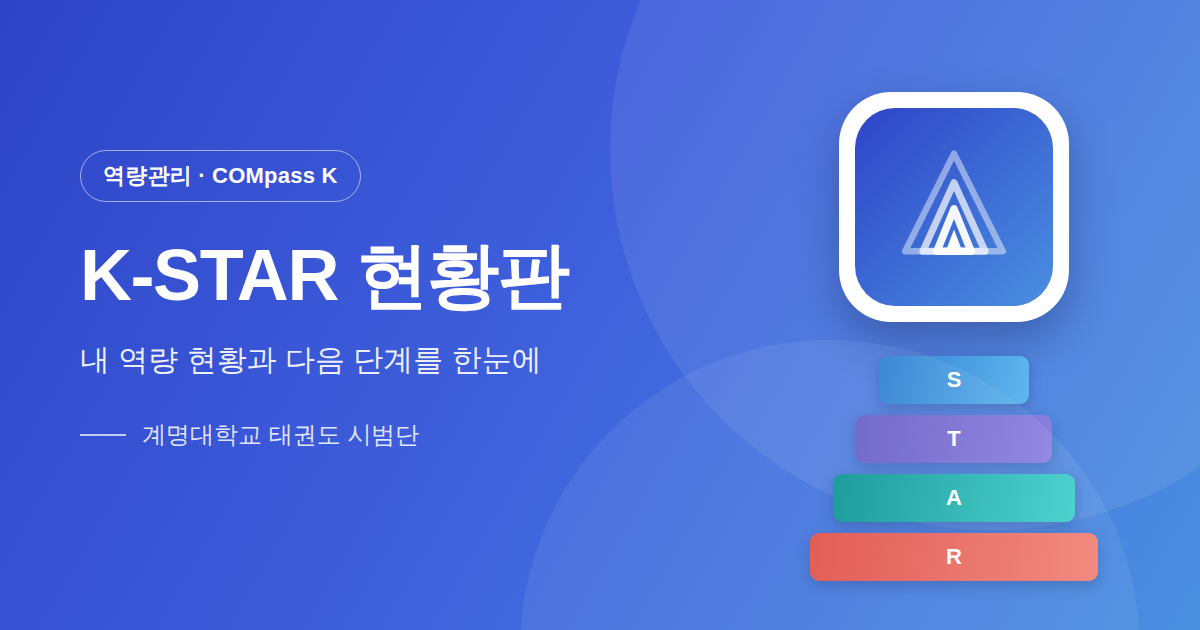
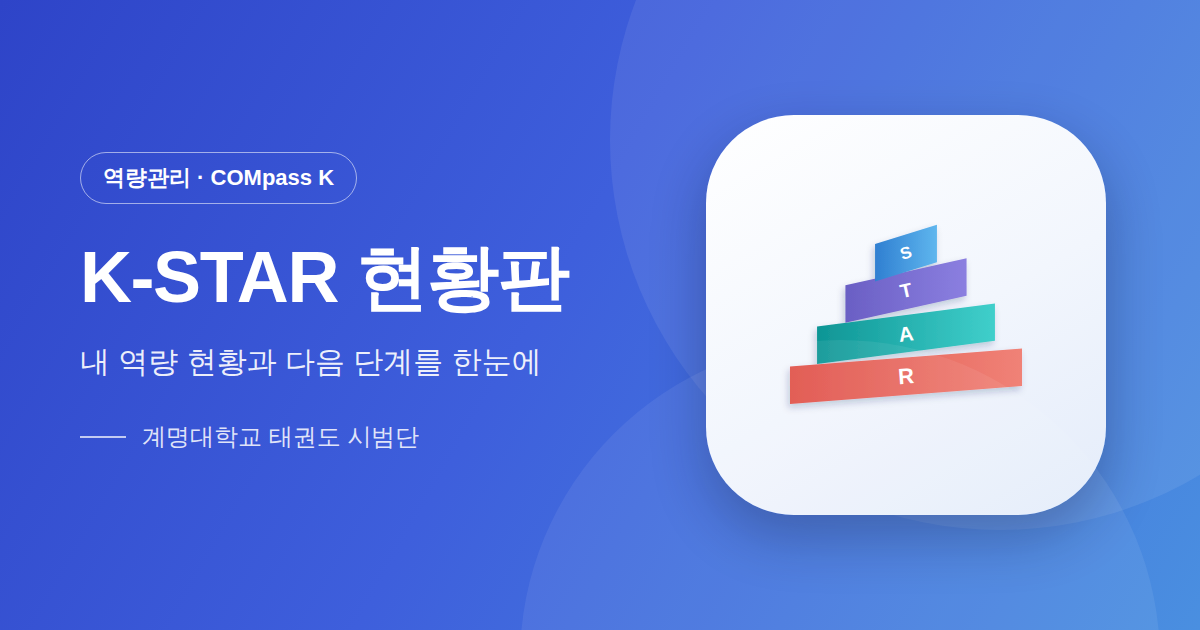
앱 아이콘을 K-STAR 피라미드로 바꾸고 인증 현황 피라미드를 넣음
- 아이콘: 계명스튜던트포털의 K-STAR 피라미드를 본떠 기울어진
  네 층(R 빨강 / A 청록 / T 보라 / S 파랑)으로 다시 그림.
  카톡 미리보기 이미지도 같은 그림으로 교체
- 단원 화면 위쪽과 관리자 상세에 "K-STAR 인증 현황" 피라미드 추가.
  인증받은 층은 제 색으로 칠하고 왼쪽에 빨간 인증 도장,
  아직인 층은 회색으로 비워 둔다
- 이미 인증받은 단계를 다시 "다음 목표"로 내밀던 문제를 고침.
  칸 배정과 다음 목표를 따로 계산하고, FACE 미달 상태로 S를
  향하는 경우는 "S단계 준비 중"으로 구분해 표시
- 좁은 화면에서 제목과 버튼이 어색하게 끊기던 것 정리

Claude-Session: https://claude.ai/code/session_019X6R4KipJqxm9tG7Tq54df

diff --git a/index.html b/index.html
@@ -89,7 +89,7 @@ button{font-family:inherit;}
 .brand-mark{width:38px; height:38px; border-radius:11px; background:var(--primary); color:var(--primary-contrast); display:flex; align-items:center; justify-content:center; font-size:18px; flex:none;}
 .brand svg{flex:none;}
 .brand-text strong{display:block; font-size:19px; font-weight:900; letter-spacing:-.01em; color:#fff;}
-.brand-text span{display:block; font-size:11.5px; color:rgba(255,255,255,.86); margin-top:2px; line-height:1.4;}
+.brand-text span{display:block; font-size:11.5px; color:rgba(255,255,255,.86); margin-top:2px; line-height:1.4; word-break:keep-all;}
 .guide-link{border:1px solid rgba(255,255,255,.4); background:rgba(255,255,255,.16); color:#fff;
   font-size:12.5px; font-weight:600; padding:8px 12px; border-radius:8px; cursor:pointer; white-space:nowrap;}
 .guide-link:hover{background:rgba(255,255,255,.28); border-color:rgba(255,255,255,.65);}
@@ -101,7 +101,7 @@ button{font-family:inherit;}
 .phone{width:100%; max-width:460px; background:var(--surface); border:1px solid var(--border); border-radius:var(--radius-l); box-shadow:var(--shadow-card); padding:24px 20px; position:relative; min-height:420px;}
 .page.wide .phone{max-width:1000px;}
 .eyebrow{font-size:11.5px; font-weight:700; letter-spacing:.06em; text-transform:uppercase; color:var(--text-faint);}
-.screen-title{font-size:22px; margin-top:6px; margin-bottom:4px;}
+.screen-title{font-size:22px; margin-top:6px; margin-bottom:4px; word-break:keep-all;}
 .screen-sub{font-size:13px; color:var(--text-muted); margin-bottom:18px;}
 
 .field{display:flex; flex-direction:column; gap:6px; margin-bottom:14px;}
@@ -123,7 +123,7 @@ button{font-family:inherit;}
 .btn-line{background:transparent; color:var(--text-muted); border:1px dashed var(--border);}
 .btn-danger{background:var(--danger-bg); color:var(--danger); border-color:var(--danger-border);}
 .btn-small{width:auto; padding:8px 12px; font-size:12.5px;}
-.linklike{background:none; border:none; color:var(--primary); font-weight:600; font-size:12.5px; cursor:pointer; padding:0;}
+.linklike{background:none; border:none; color:var(--primary); font-weight:600; font-size:12.5px; cursor:pointer; padding:0; white-space:nowrap;}
 .row{display:flex; align-items:center; gap:10px;}
 .row-between{display:flex; align-items:center; justify-content:space-between; gap:8px; margin-bottom:12px;}
 .stack{display:flex; flex-direction:column; gap:10px;}
@@ -296,6 +296,15 @@ button{font-family:inherit;}
 .gtable th{color:var(--text-faint); font-weight:700; font-size:11px;}
 details.acc{border-left:4px solid var(--border); padding-left:11px; margin-bottom:8px;}
 details.acc summary{cursor:pointer; font-weight:600; font-size:13.5px; padding:6px 0;}
+/* K-STAR 인증 현황 피라미드 */
+.pyr{border:1px solid var(--border); border-radius:var(--radius-m); background:var(--surface-3);
+  padding:13px 14px 8px; margin-bottom:14px;}
+.pyr-head{display:flex; align-items:baseline; gap:8px; margin-bottom:4px;}
+.pyr-head b{font-size:13px; font-weight:800;}
+.pyr-head span{margin-left:auto; font-size:11.5px; font-weight:700; color:var(--text-muted);}
+.pyr svg{display:block; width:100%; height:auto;}
+.pyr-foot{font-size:11.5px; color:var(--text-muted); line-height:1.5; text-align:center; padding:2px 0 4px;}
+
 /* 단원 화면의 인증 절차 안내 */
 .procbox{border:1px solid var(--border); border-radius:var(--radius-m); background:var(--surface-3); margin-bottom:14px; overflow:hidden;}
 .procbox>summary{cursor:pointer; list-style:none; padding:12px 14px; font-size:13px; font-weight:800; color:var(--primary); display:flex; align-items:baseline; gap:7px; flex-wrap:wrap;}
@@ -356,7 +365,7 @@ function num(v){ var n = Number(v); return isFinite(n) ? n : 0; }
 var API_URL = 'https://script.google.com/macros/s/AKfycbwAFtdwKL3QTGxGSzOiJiwc19kmYAjOwWH2yszp2hy64RD1OClqMN5IOR5y-nx7uhNd/exec';
 
 // 화면 아래에 표시되는 판 번호. 고칠 때마다 올린다.
-var APP_VERSION = '2026-09-16 j';
+var APP_VERSION = '2026-09-16 l';
 
 /* ============ store: 서버 → 아티팩트DB → 기기저장 순으로 사용 ============ */
 var db = null, fallbackMode = false, fallbackData = {};
@@ -631,11 +640,13 @@ var STAGE_TITLE = {
 };
 var STAGE_FULL = {
   S:'다음 단계 — S단계 도전 가능', T:'다음 단계 — T단계 선발 대상',
-  A:'다음 단계 — A단계 선발 대상', R:'다음 단계 — R단계 요건부터'
+  A:'다음 단계 — A단계 선발 대상', R:'다음 단계 — R단계 요건부터',
+  S0:'다음 단계 — S단계 준비 중'
 };
 var STAGE_DESC = {
   S:'FACE 1개 영역 달성 · 1차 자동 선발', T:'3·4학년 · 영역별 최우수 선발 대기',
-  A:'1·2학년 · 총점 우수 선발 대기', R:'자소서 · 계획서 · 교수상담 미완료'
+  A:'1·2학년 · 총점 우수 선발 대기', R:'자소서 · 계획서 · 교수상담 미완료',
+  S0:'FACE 한 영역을 채우면 바로 도전 가능'
 };
 
 /* 지금까지 실제로 인증받은 단계 (칸 구분과는 다름) */
@@ -653,10 +664,11 @@ function curPill(s, a){
 }
 
 function stageBand(stage, cur){
+  var letter = stage.charAt(0);
   var curTxt = cur === undefined ? ''
     : ' · 현재 인증 ' + (cur ? cur + '단계' : '없음');
-  return '<div class="stage-band st-'+stage+'">' +
-    '<span class="sb-mark">'+stage+'</span>' +
+  return '<div class="stage-band st-'+letter+'">' +
+    '<span class="sb-mark">'+letter+'</span>' +
     '<div><span class="sb-name">'+STAGE_FULL[stage]+'</span>' +
     '<span class="sb-desc">'+STAGE_DESC[stage]+curTxt+'</span></div></div>';
 }
@@ -702,9 +714,15 @@ function actionLines(area, gap){
 }
 function stageOf(s, a){
   var stage = !a.rDone ? 'R' : (a.achievedCount>=1 ? 'S' : (num(s.year)<=2 ? 'A' : 'T'));
+  // 이미 인증받은 단계를 다시 "다음 목표"로 내밀지 않는다.
+  var certed = { R:a.rDone, A:!!s.certA, T:!!s.certT, S:!!s.certS };
+  var next = stage;
+  if(certed[stage]) next = 'S';
+  if(next==='S' && a.achievedCount===0) next = 'S0';   // S를 향하지만 아직 FACE 미달
+  if(s.certS) next = 'S';
   var label = stage==='R' ? 'R단계 준비중' : stage==='S' ? 'S단계 도전 가능'
             : stage==='A' ? '다음 목표: A단계' : '다음 목표: T단계';
-  return { stage:stage, label:label };
+  return { stage:stage, next:next, label:label };
 }
 function recommendation(s, a){
   if(!a.rDone){
@@ -760,15 +778,67 @@ function recommendation(s, a){
     '<span class="rfoot">(추정 — 정확한 인정 여부는 학생성공센터에 확인)</span>' };
 }
 
-function analysisHtml(s){
+/* 계명스튜던트포털의 K-STAR 인증 현황 그림을 그대로 옮긴 피라미드 */
+var PYR_TIERS = [
+  { k:'S', color:'#3E8FD9', pts:'138,35 202,15 202,54 138,73',    lx:170, ly:44,  rot:-17.4, sy:44,  lineTo:138 },
+  { k:'T', color:'#7B70D8', pts:'108,77 232,50 232,88 108,116',   lx:170, ly:83,  rot:-12.6, sy:83,  lineTo:108 },
+  { k:'A', color:'#16A9A5', pts:'78,120 262,96 262,135 78,158',   lx:170, ly:127, rot:-7.4,  sy:127, lineTo:78  },
+  { k:'R', color:'#E4635B', pts:'50,161 290,143 290,181 50,200',  lx:170, ly:171, rot:-4.45, sy:171, lineTo:50  }
+];
+var PYR_NEXT = {
+  R:'R단계 — 자기소개서 · 학업계획서 · 교수상담 3가지',
+  A:'A단계 — 학과별 COMpass K 총점 순위 선발',
+  T:'T단계 — 단과대학별 FACE 영역 순위 선발',
+  S:'S단계 도전 — MY포트폴리오 준비하기',
+  S0:'S단계 — FACE 한 영역 채우기'
+};
+
+function pyramidHtml(s, a){
+  var done = { R:a.rDone, A:!!s.certA, T:!!s.certT, S:!!s.certS };
+  var cur = currentStage(s, a);
+  var body = PYR_TIERS.map(function(t){
+    var on = done[t.k];
+    var fill = on ? t.color : '#DFE4EC';
+    var ink  = on ? '#FFFFFF' : '#9AA3AC';
+    return '<polygon points="'+t.pts+'" fill="'+fill+'"'+(on?'':' opacity=".9"')+'/>' +
+      '<text x="'+t.lx+'" y="'+t.ly+'" font-size="15" font-weight="800" fill="'+ink+'"' +
+        ' text-anchor="middle" dominant-baseline="central"' +
+        ' transform="rotate('+t.rot+' '+t.lx+' '+t.ly+')">'+t.k+'</text>' +
+      '<line x1="44" y1="'+t.sy+'" x2="'+t.lineTo+'" y2="'+t.sy+'" stroke="'+(on?t.color:'#DFE4EC')+'" stroke-width="1.4"/>' +
+      (on
+        ? '<g transform="rotate(-12 24 '+t.sy+')">' +
+            '<circle cx="24" cy="'+t.sy+'" r="17" fill="#E0524A"/>' +
+            '<circle cx="24" cy="'+t.sy+'" r="13.5" fill="none" stroke="#fff" stroke-width="1.2" stroke-opacity=".75"/>' +
+            '<text x="24" y="'+(t.sy+0.5)+'" font-size="10" font-weight="800" fill="#fff"' +
+              ' text-anchor="middle" dominant-baseline="central">인증</text>' +
+          '</g>'
+        : '<circle cx="24" cy="'+t.sy+'" r="17" fill="none" stroke="#DFE4EC" stroke-width="2.4"/>' +
+          '<circle cx="24" cy="'+t.sy+'" r="3.2" fill="#DFE4EC"/>');
+  }).join('');
+
+  var nxt = stageOf(s, a).next;
+  var foot = s.certS ? '<b style="color:var(--text);">S단계 인증 완료 — 최고 단계입니다</b>'
+    : cur ? '<b style="color:var(--text);">'+cur+'단계 인증 완료</b> · 다음은 ' + PYR_NEXT[nxt]
+    : '아직 인증받은 단계가 없습니다 · 먼저 ' + PYR_NEXT.R;
+
+  return '<div class="pyr">' +
+    '<div class="pyr-head"><b>K-STAR 인증 현황</b>' +
+      '<span>'+(cur ? '현재 '+cur+'단계' : '아직 인증 전')+'</span></div>' +
+    '<svg viewBox="0 0 300 215" role="img" aria-label="K-STAR 인증 현황 피라미드">'+body+'</svg>' +
+    '<div class="pyr-foot">'+foot+'</div>' +
+  '</div>';
+}
+
+function analysisHtml(s, o){
   var a = analyze(s), reco = recommendation(s,a);
   var certs = [['S',!!s.certS],['T',!!s.certT],['A',!!s.certA],['R',a.rDone]];
   var ranked = AREAS.filter(function(x){ return !a.achieved[x]; }).sort(function(x,y){ return a.gaps[x]-a.gaps[y]; });
   var r1 = ranked[0]||null, r2 = ranked[1]||null;
   return (
-    '<div class="certrow"><span class="clabel">현재 인증 단계</span><div class="certbadges">' +
+    ((o && o.noCerts) ? '' :
+      '<div class="certrow"><span class="clabel">현재 인증 단계</span><div class="certbadges">' +
       certs.map(function(c){ return '<span class="certbadge '+(c[1]?'on '+c[0]:'')+'">'+c[0]+'</span>'; }).join('') +
-    '</div></div>' +
+      '</div></div>') +
     '<div class="rrow">' +
       [['r1','자기소개서'],['r2','학업계획서'],['r3','교수상담']].map(function(p){
         var done = !!s[p[0]];
@@ -1136,9 +1206,10 @@ function screenMyStatus(){
       '<button class="linklike" data-action="logout">로그아웃</button>' +
     '</div>' +
     '<div style="height:14px;"></div>' +
+    pyramidHtml(s, analyze(s)) +
     deadlineBox(true) +
-    stageBand(st.stage, currentStage(s, analyze(s))) +
-    analysisHtml(s) +
+    stageBand(st.next, currentStage(s, analyze(s))) +
+    analysisHtml(s, {noCerts:true}) +
     '<div style="height:14px;"></div>' +
     procHtml() +
     '<button class="btn btn-primary" data-action="goto-scores">내 점수 입력·수정하기</button>' +
@@ -1481,13 +1552,14 @@ function screenDetail(){
     '</div>' +
     (swipeHintSeen() ? '' : '<div class="swipe-hint">좌우로 밀어서 다른 단원을 볼 수 있어요</div>') +
     '<div class="detail-wrap'+slide+'">' +
-    stageBand(st.stage, currentStage(s, analyze(s))) +
+    stageBand(st.next, currentStage(s, analyze(s))) +
     '<div class="row-between">' +
       '<div><div class="eyebrow">'+esc(s.major||'학과 미입력')+' · '+esc(num(s.year))+'학년' +
       (s.claimedBy ? ' · 학번 '+esc(s.claimedBy) : ' · 미가입')+'</div>' +
       '<h2 class="screen-title">'+esc(s.name)+curPill(s, analyze(s))+'</h2></div>' +
     '</div>' +
-    analysisHtml(s) +
+    pyramidHtml(s, analyze(s)) +
+    analysisHtml(s, {noCerts:true}) +
     '<div style="height:14px;"></div>' +
     '<form id="form-admin-edit" class="stack">' +
       '<label style="font-size:12.5px; font-weight:600; color:var(--text-muted);">R단계 요건</label>' +
